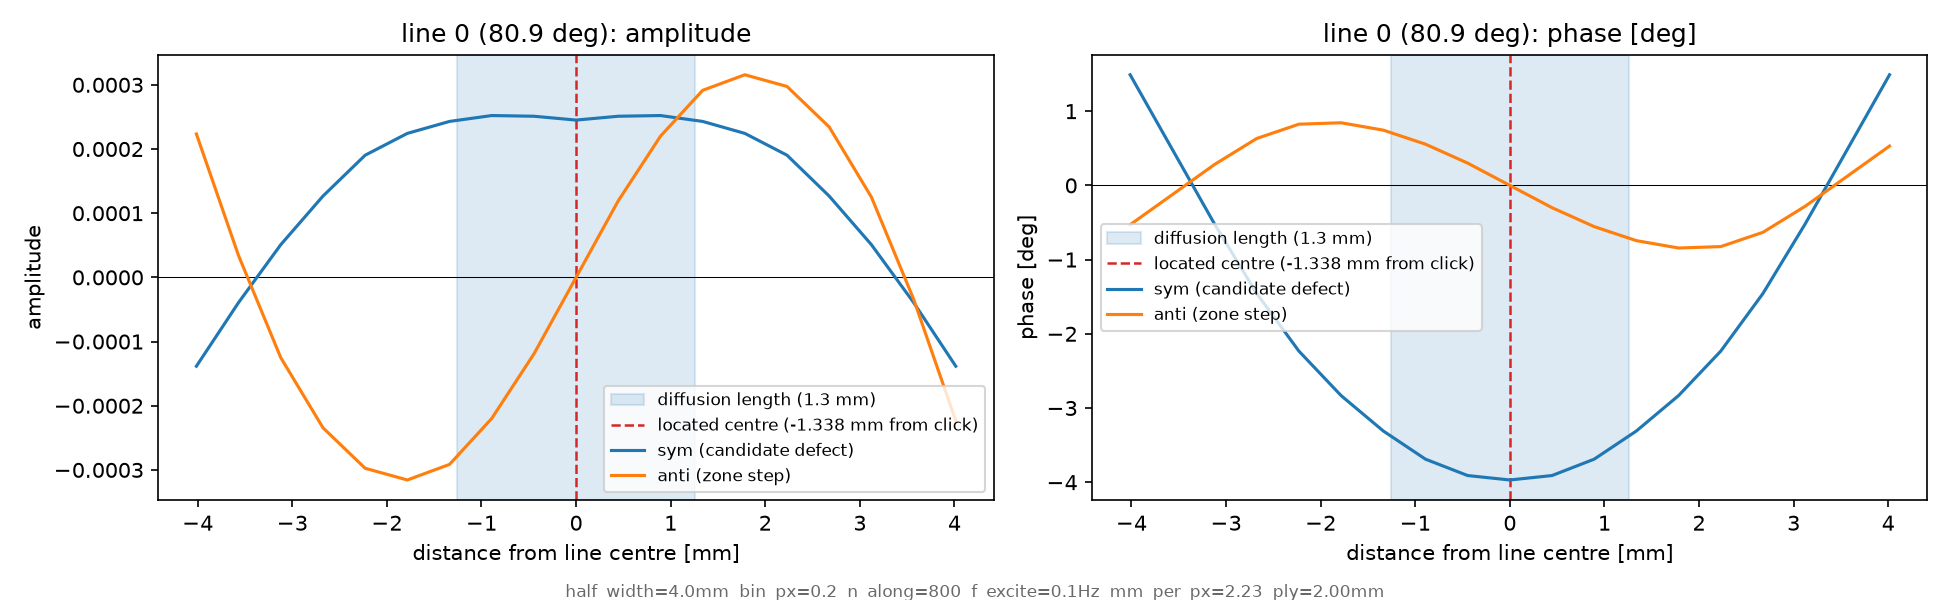
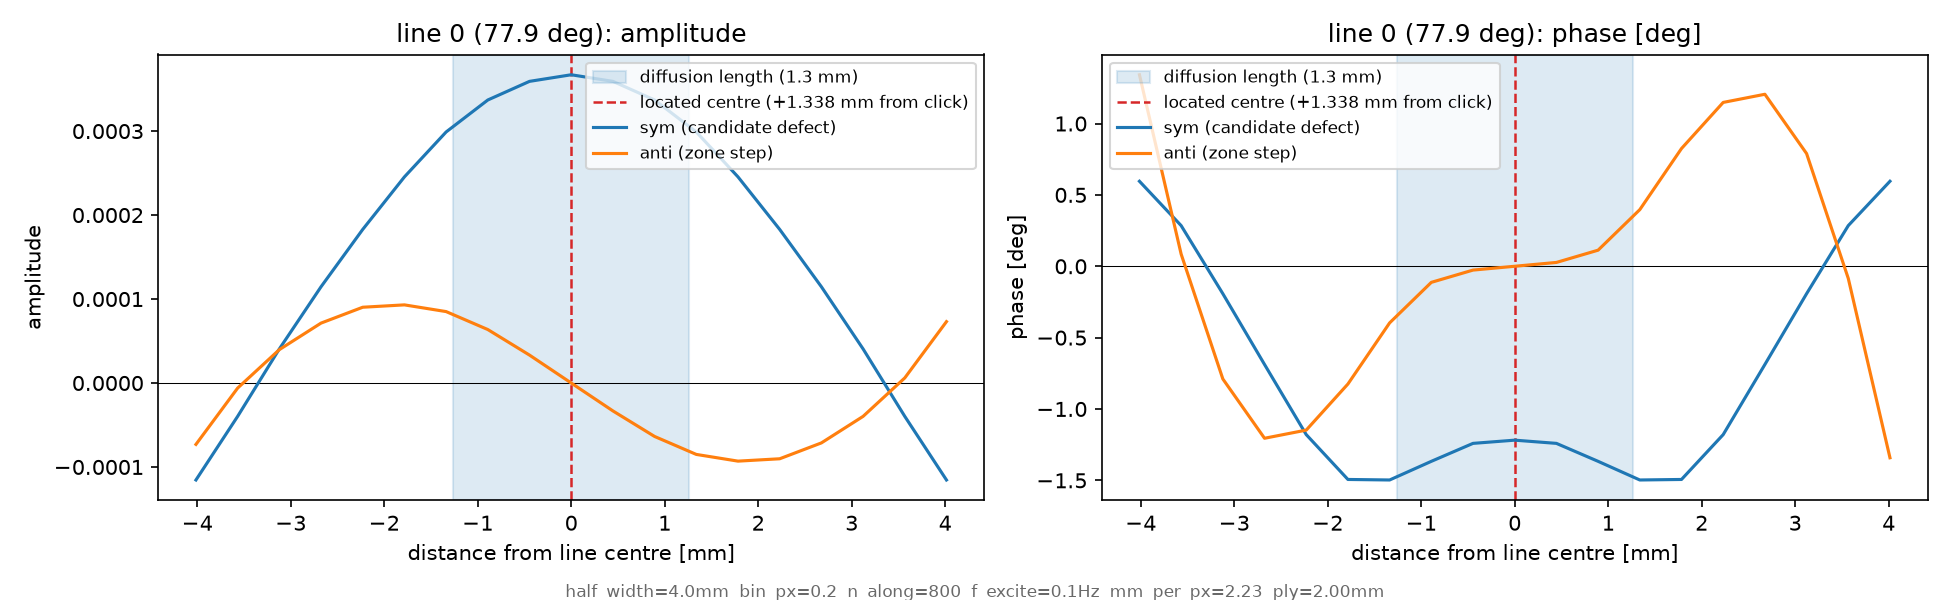
I don't even KNOW anymore

diff --git a/lockin_thermography.py b/lockin_thermography.py
@@ -2487,14 +2487,14 @@ def _lockin_cache_path(path, fps, f_excite, register, register_upsample,
     return Path(f"{path}.lockin_cache_{digest}.npz")
 
 
-def analyse(path, fps, f_excite, mm_per_px=None, n_lines=1,
+def analyse(path, fps, f_excite, mm_per_px=None, n_lines=5,
             roi_config_path="roi_config.json", use_saved_config=False,
             auto_geometry=False,
             register=False, register_upsample=20, register_reference="middle",
             reject_outliers=True, outlier_mad_threshold=8.0,
             use_lockin_cache=True, force_recompute=False,
             mask_polarity="auto", mask_close_px=3, pick_mask_roi=False,
-            phase_reference="circular_mean", unwrap_phase=False,
+            phase_reference="circular_mean", unwrap_phase=True,
             wing_factor=3.0, half_width_mm=4.0, bin_px=0.2, n_along=800,
             ply_thickness_mm=2.0, baseline_frac=0.6, max_shift_mm=1.5,
             detrend_profile=True):
